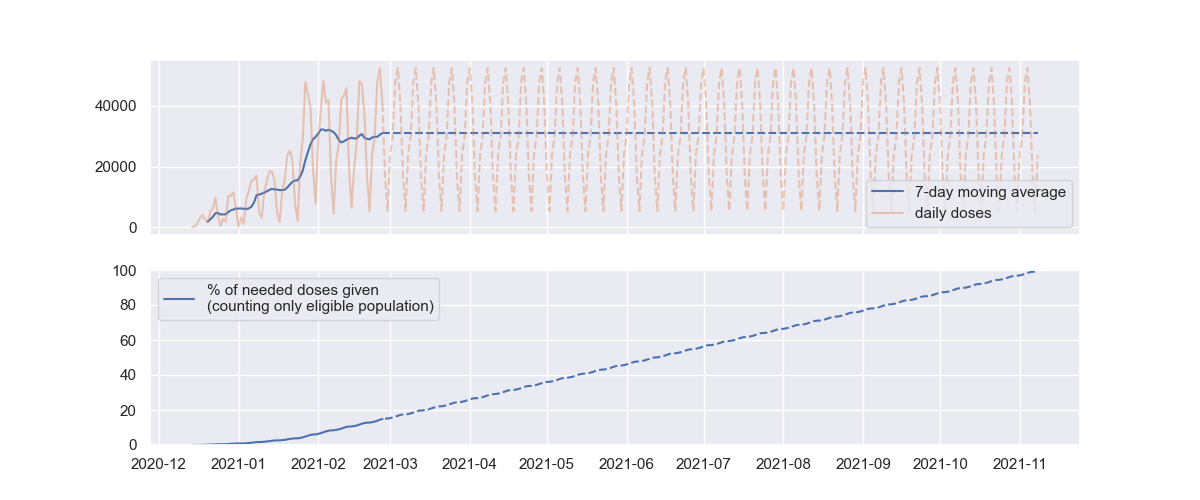
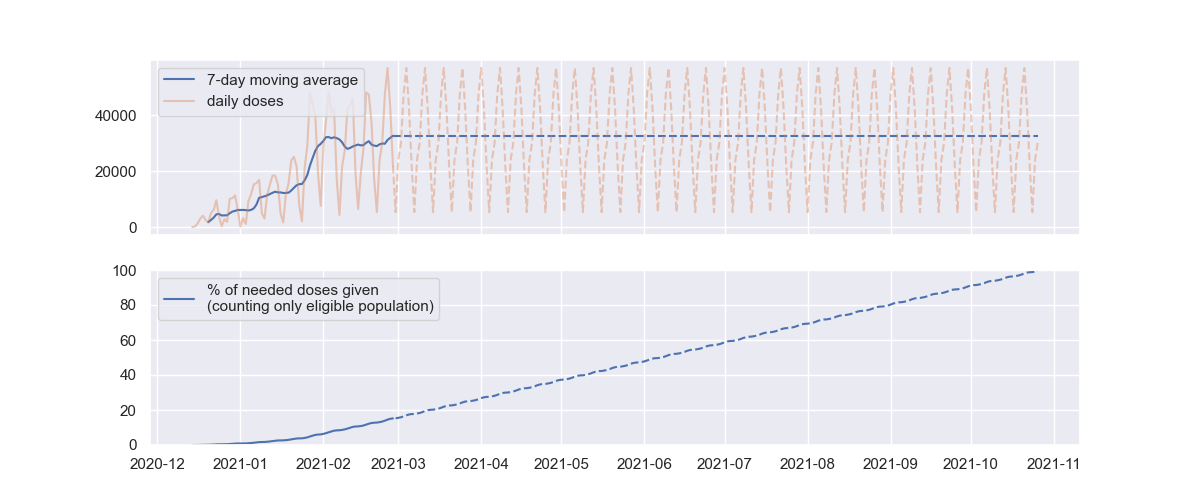
2021-02-28

diff --git a/README.md b/README.md
@@ -10,10 +10,10 @@ Raw data was obtained from https://www.dhs.wisconsin.gov/covid-19/vaccine-data.h
 
 ```
 $ python trax.py
-Data up through 2021-02-26, recent data is usually corrected to be higher
-31013 average doses per day over past 7 days (+1520 compared to 2 weeks ago)
-47.2 weeks (2022-01-22) for EVERY PERSON to get 2 doses
-36.5 weeks (2021-11-08) for all eligible people (over 16 years old) to get 2 doses
+Data up through 2021-02-27, recent data is usually corrected to be higher
+32693 average doses per day over past 7 days (+3533 compared to 2 weeks ago)
+44.7 weeks (2022-01-05) for EVERY PERSON to get 2 doses
+34.5 weeks (2021-10-26) for all eligible people (over 16 years old) to get 2 doses
 ```
 
 # Charts
